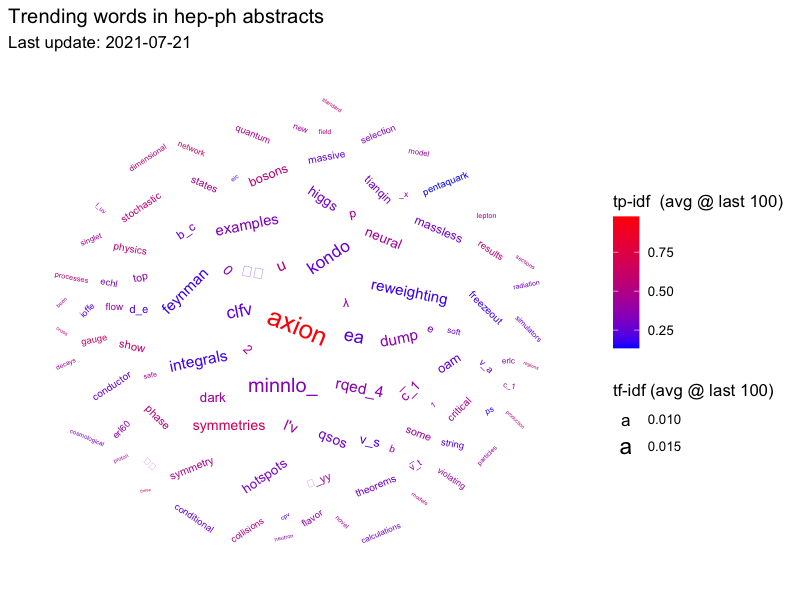
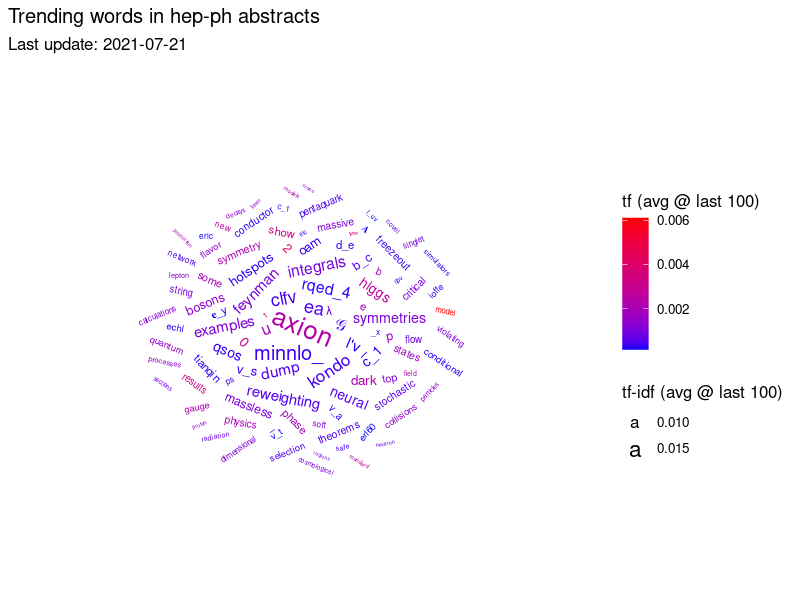
Use bare term-frequencies for colour

diff --git a/README.md b/README.md
@@ -32,8 +32,8 @@ cloud](https://raw.githubusercontent.com/vgherard/hepscrape/master/img/cloud.png
 
 Figure: Word cloud from hep-ph abstracts. Words’ character sizes are
 proportional to their Term-Frequency - Inverse-Document-Frequency,
-whereas color gradients are proportional to Term-Presence -
-Inverse-Document-Frequency (a.k.a. binary tf-idf). The `idf` weight is
-given by `w = ln (1 / df) ^ 1.5`. Term-frequencies are averaged over the
-last 100 arXiv submissions, while Inverse Document Frequencies are
-computed from the whole arXiv Metadata OAI Snapshot corpus.
+whereas color gradients are proportional to Term-Frequency. The `idf`
+weight is given by `w = ln (1 / df) ^ 1.5`. Term-frequencies are
+averaged over the last 100 arXiv submissions, while Inverse Document
+Frequencies are computed from the whole arXiv Metadata OAI Snapshot
+corpus.
